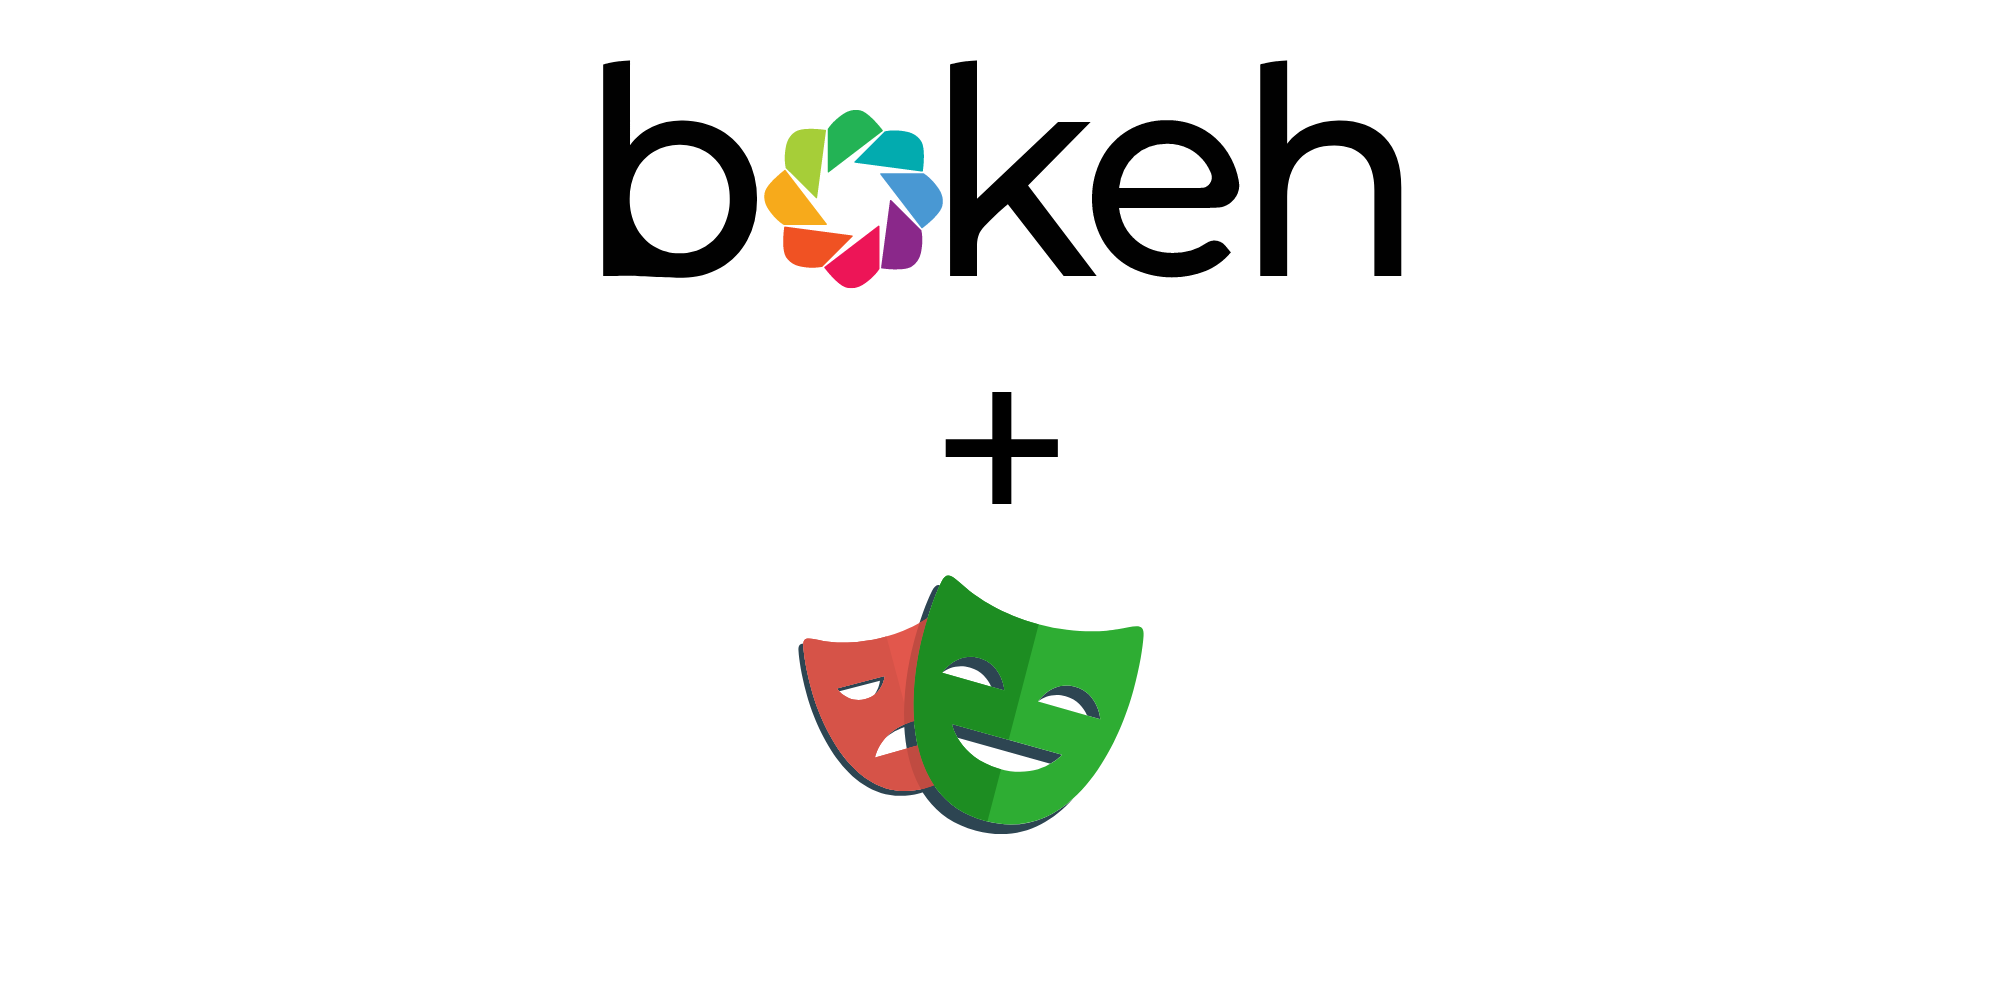
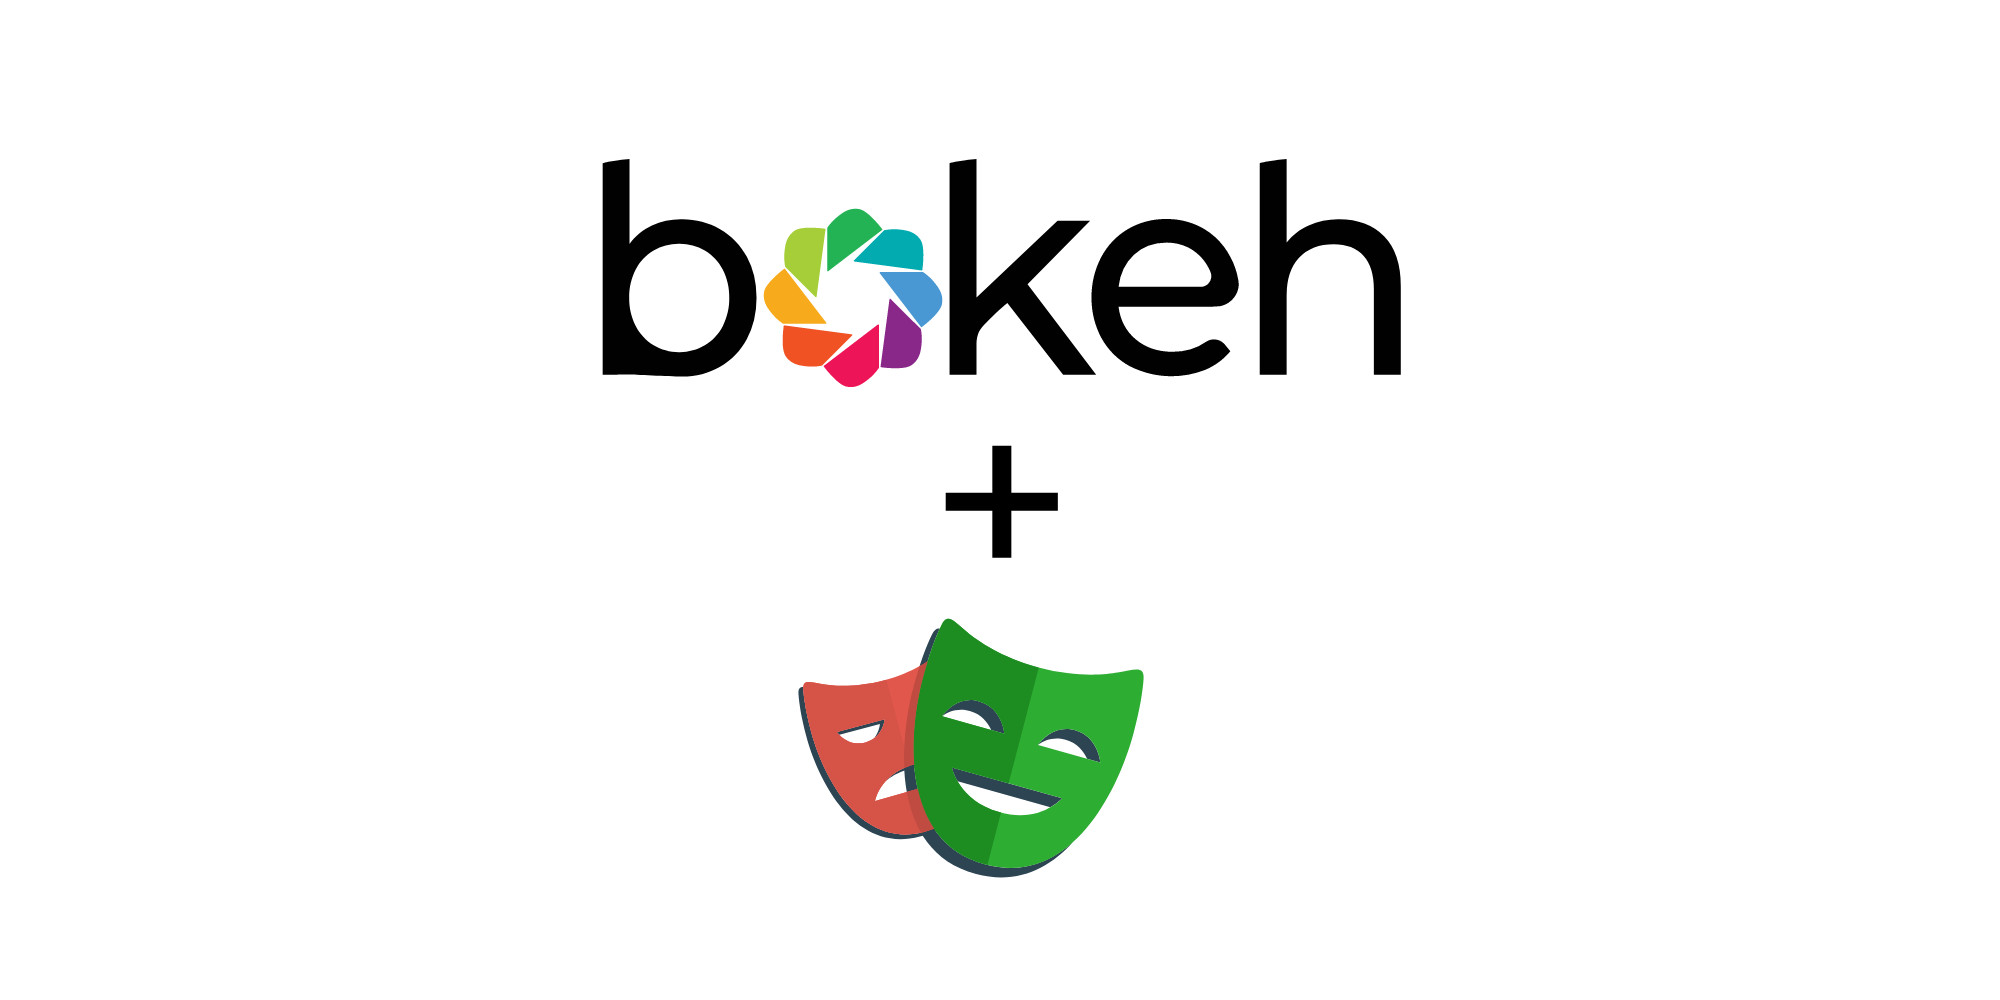
finalize featured/hero image

Changed region(s): [[0.279, 0.062, 0.713, 0.465], [0.372, 0.558, 0.589, 0.899], [0.465, 0.496, 0.527, 0.558]]

diff --git a/apps/labs/posts/automated-accessibility-testing-with-bokeh.md b/apps/labs/posts/automated-accessibility-testing-with-bokeh.md
@@ -7,15 +7,11 @@ description: 'Data is only useful to the extent that people can access it.
   visualizations more accessible.'
 category: [Access-centered, Beyond PyData, Internship]
 featuredImage:
-  src: /posts/hello-world-post/featured_image.png
-  alt: 'Excellent alt-text describing the featured image which appears as a
-    small image in our main blog page. This image needs to be 391x174 pixels
-    in size.'
+  src: /posts/automated-accessibility-testing-with-bokeh/featured_image.png
+  alt: 'An image of the Bokeh visualization library logo with a plus symbol directly beneath it, and the logo of the playwright testing tool beneath the plus symbol. They are arranged vertically on a white background.'
 hero:
-  imageSrc: /posts/hello-world-post/hero.jpeg
-  imageAlt: 'Excellent alt-text describing the hero image which appears as a
-    large image at the top of your post page. This image needs to be 1440x696
-    pixels in size'
+  imageSrc: /posts/automated-accessibility-testing-with-bokeh/featured_image.png
+  imageAlt: 'An image of the Bokeh visualization library logo with a plus symbol directly beneath it, and the logo of the playwright testing tool beneath the plus symbol. They are arranged vertically on a white background.'
 ---
 
 My name is Chiemezuo, and I got to do some amazing work as a Quansight Labs
